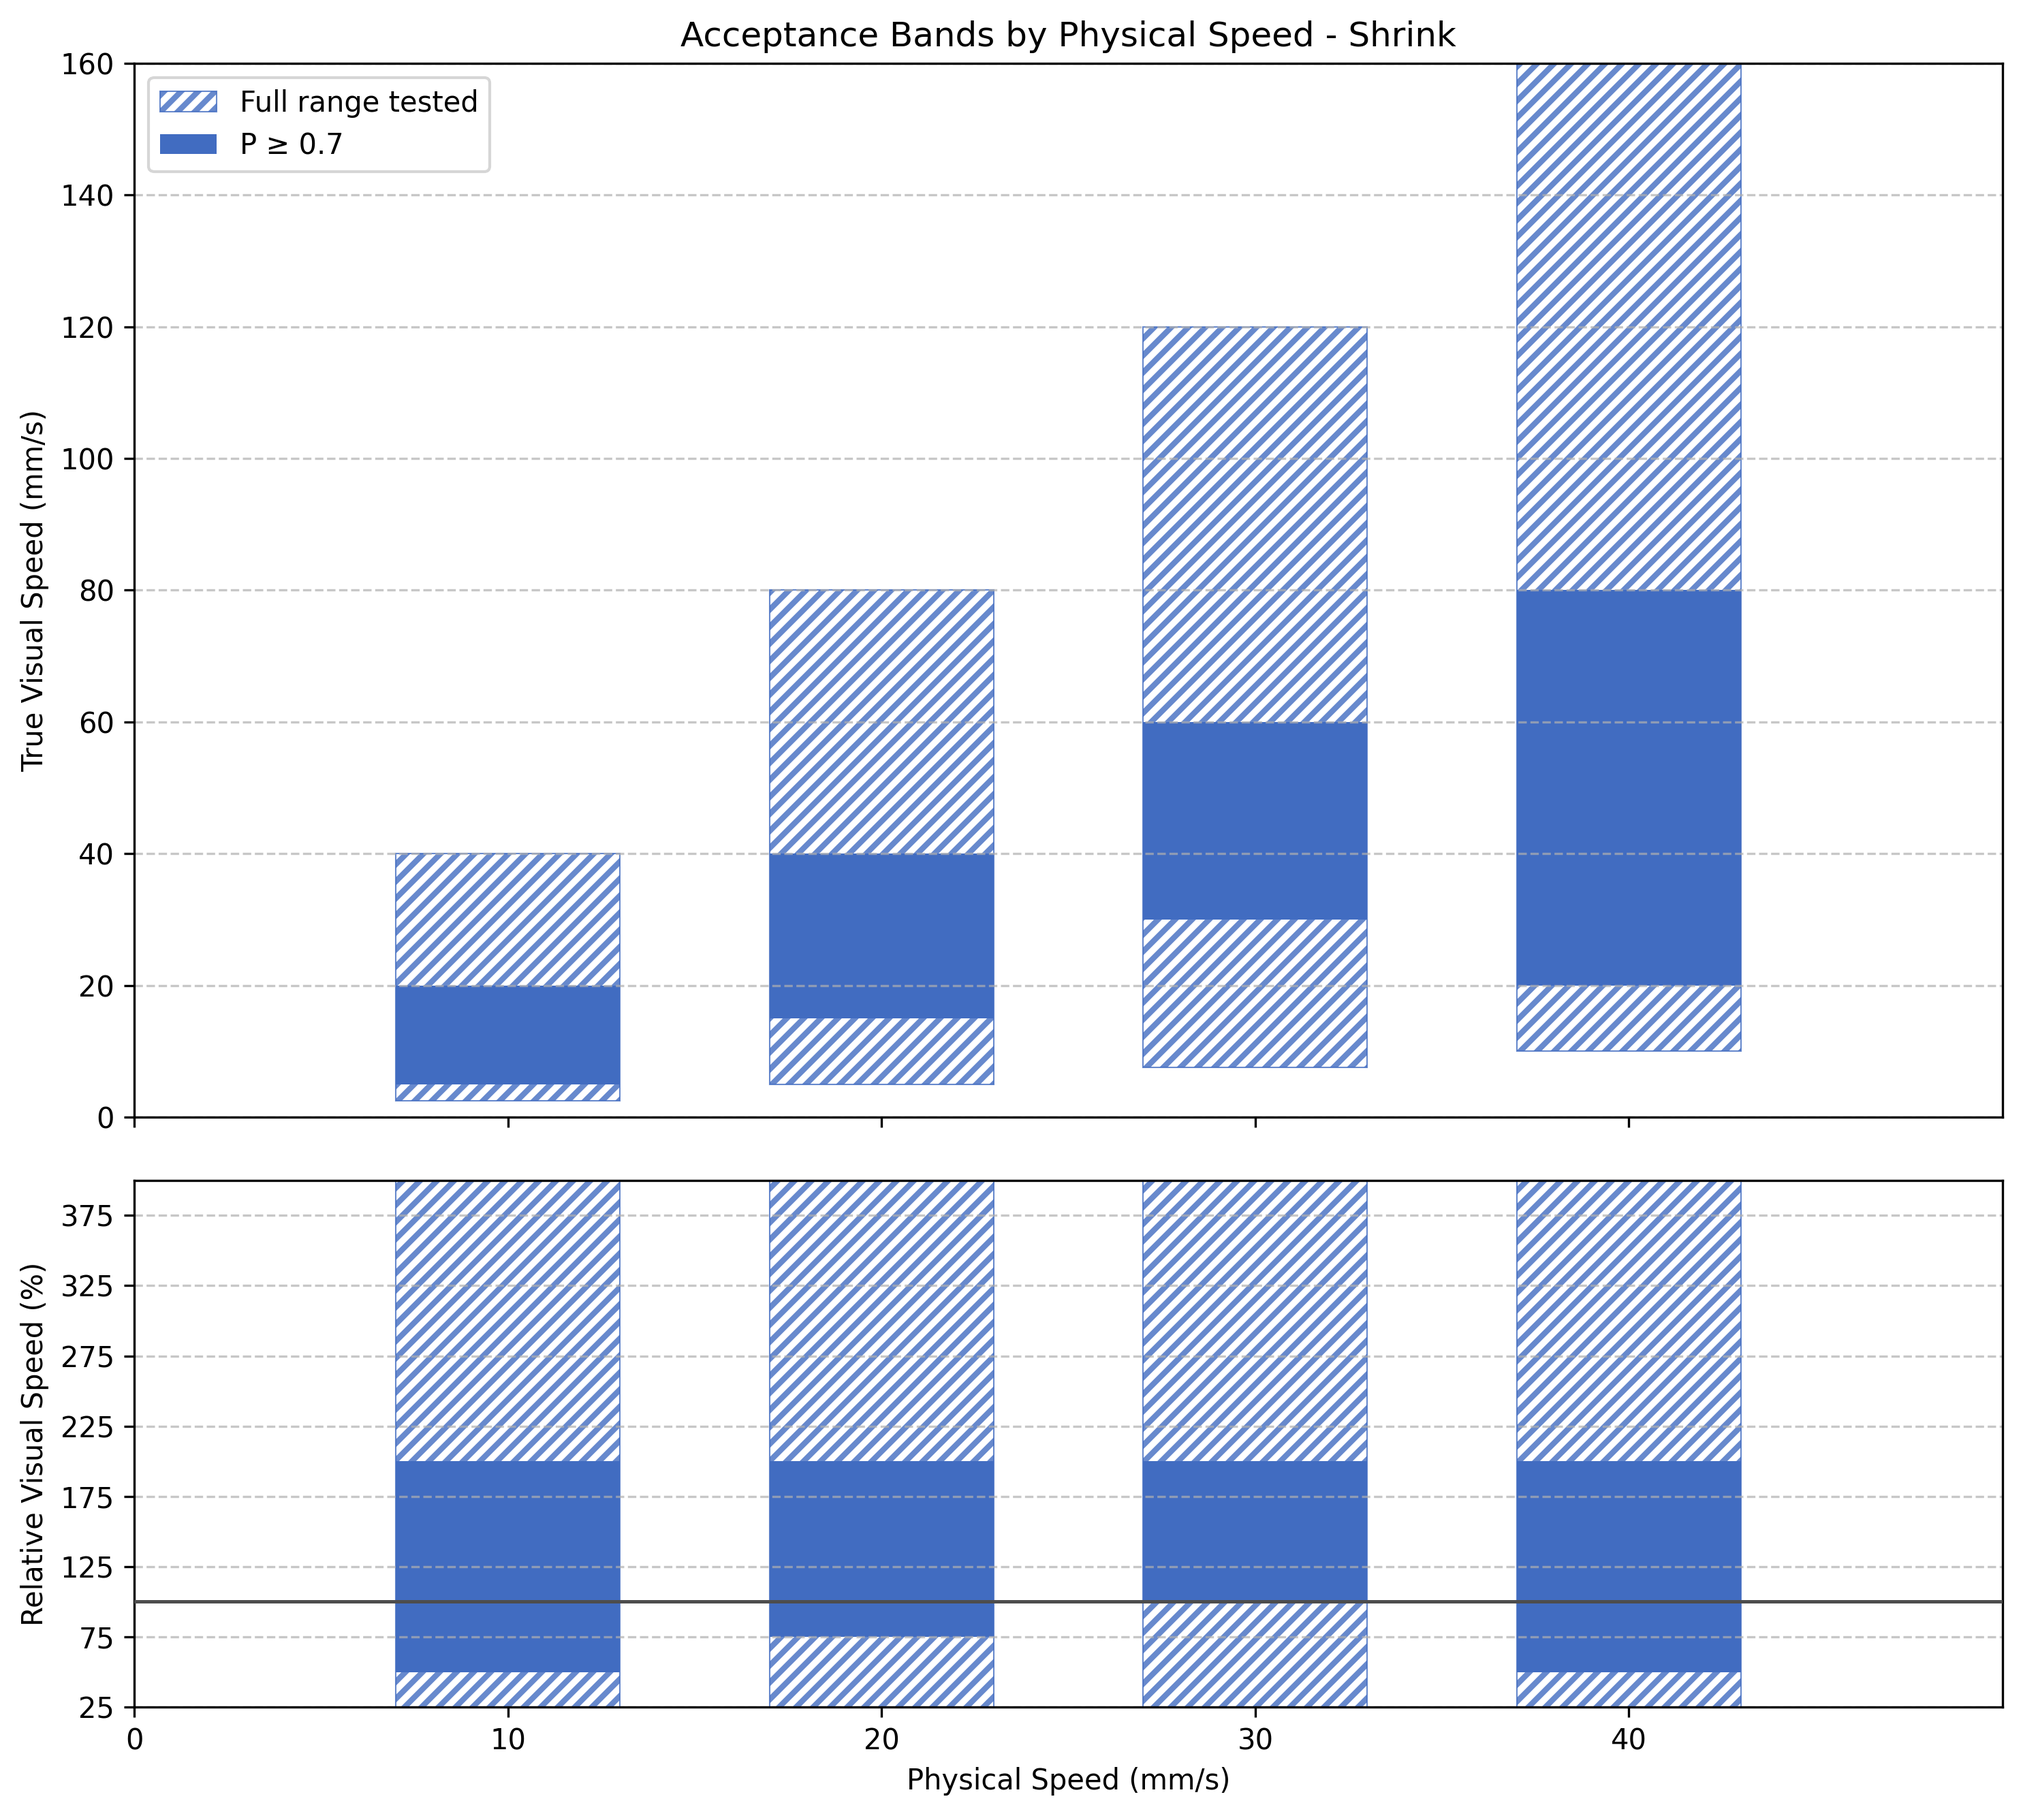
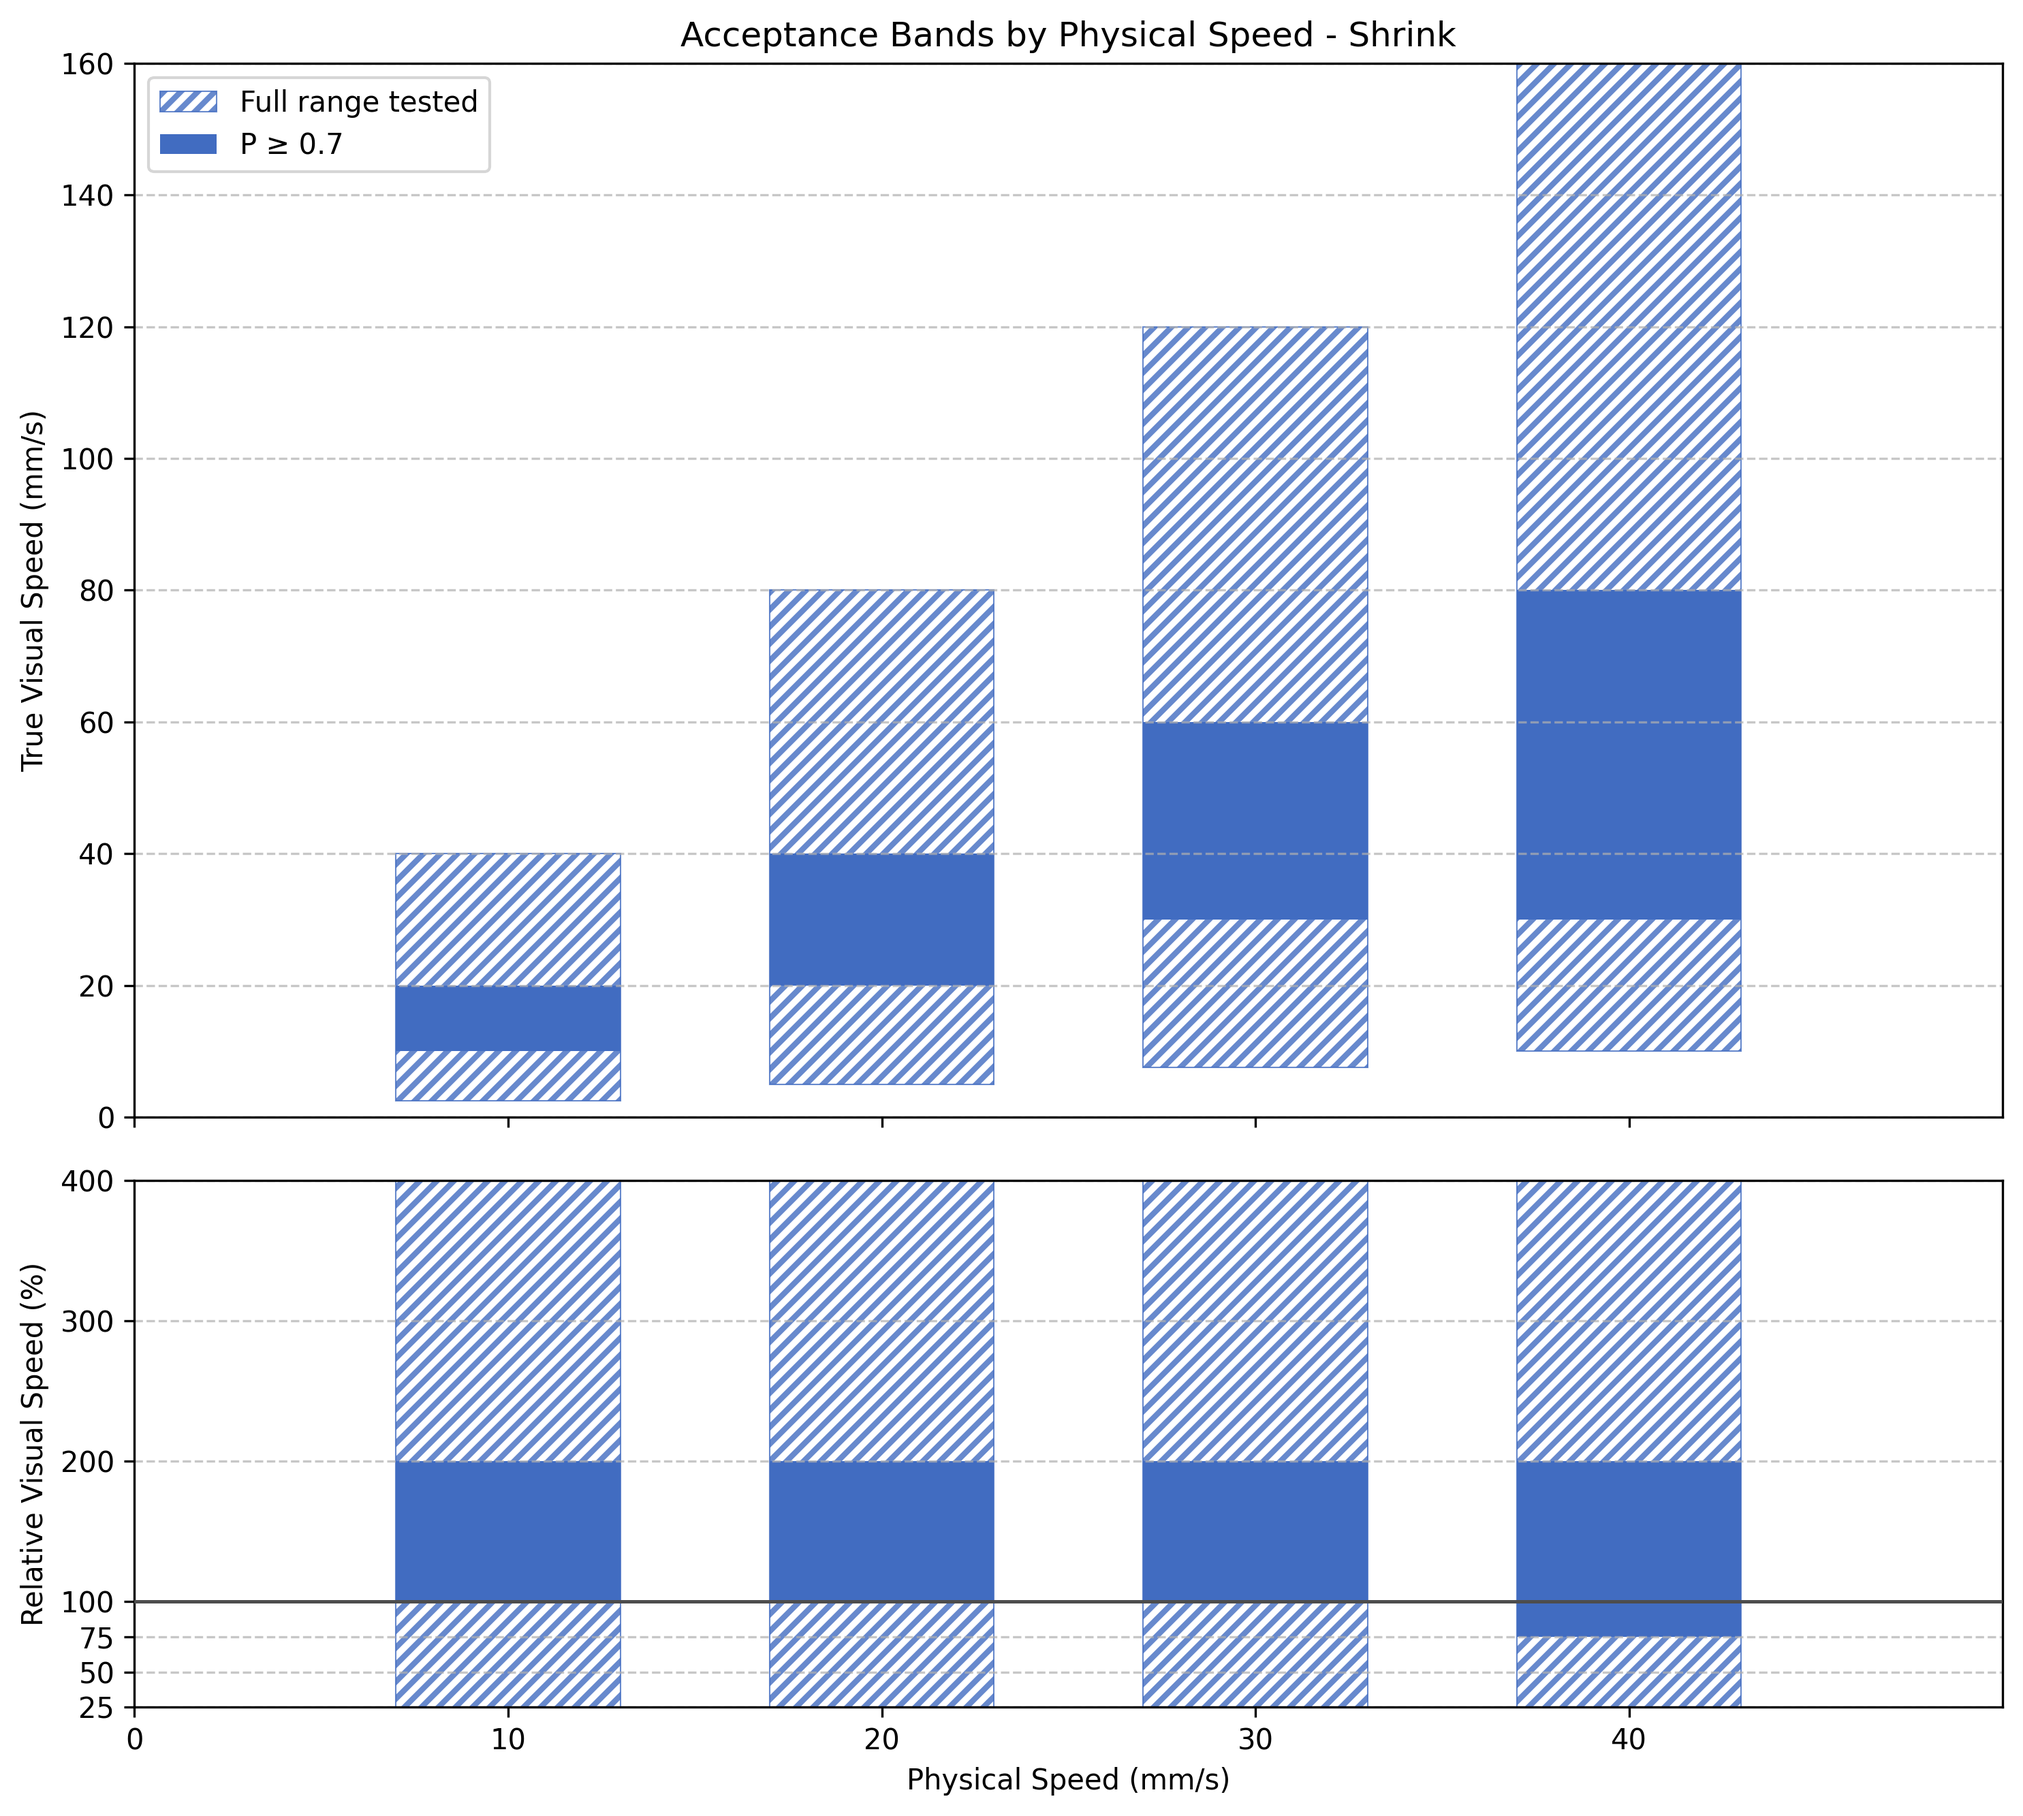
study 2a pilot visualization

diff --git a/Assets/data/study2_speed/speed_visualization.py b/Assets/data/study2_speed/speed_visualization.py
@@ -8,7 +8,7 @@ import os
 import numpy as np
 
 # Load data
-pids = [3]
+pids = [1,2,3]
 
 all_trials = []
 all_data = []
@@ -216,7 +216,7 @@ ax.grid(axis='y', linestyle='--', alpha=0.7)
 ax2.set_xticks(np.arange(0, 41, 10))
 ax2.set_xlim(0, 50)
 ax2.set_xlabel("Physical Speed (mm/s)")
-ax2.set_yticks(np.arange(25, 401, 50))
+ax2.set_yticks([25, 50, 75, 100, 200, 300, 400])
 ax2.set_ylim(25, 400)
 ax2.set_ylabel("Relative Visual Speed (%)")
 ax2.set_title("")
@@ -380,7 +380,7 @@ ax.grid(axis='y', linestyle='--', alpha=0.7)
 ax2.set_xticks(np.arange(0, 41, 10))
 ax2.set_xlim(0, 50)
 ax2.set_xlabel("Physical Speed (mm/s)")
-ax2.set_yticks(np.arange(25, 401, 50))
+ax2.set_yticks([25, 50, 75, 100, 200, 300, 400])
 ax2.set_ylim(25, 400)
 ax2.set_ylabel("Relative Visual Speed (%)")
 ax2.set_title("")

diff --git a/Assets/data/congruency/study1_processor.py b/Assets/data/congruency/study1_processor.py
@@ -566,6 +566,20 @@ def draw_bars_bottom(axis, df, bar_width=4):
 draw_bars_top(ax, heatmap_df, bar_width=6)
 draw_bars_bottom(ax2, heatmap_df2, bar_width=6)
 
+print("\nMean relative visual size (%) where P(congruent) > 0.70:")
+all_above = []
+for p in heatmap_df2.columns:
+    col = heatmap_df2[p].dropna()
+    mask = col.values > 0.70
+    if mask.any():
+        vals = col.index.values[mask]
+        all_above.extend(vals)
+        print(f"  Physical {p:5.1f} mm -> {vals.mean():.1f}%")
+    else:
+        print(f"  Physical {p:5.1f} mm -> no values above threshold")
+if all_above:
+    print(f"  Overall mean          -> {np.mean(all_above[1:]):.1f}%")
+
 ax2.axhline(y=100, color='0.3', linewidth=1.2, linestyle='-', zorder=3)
 
 hatch_patch_legend = patches.Rectangle(
